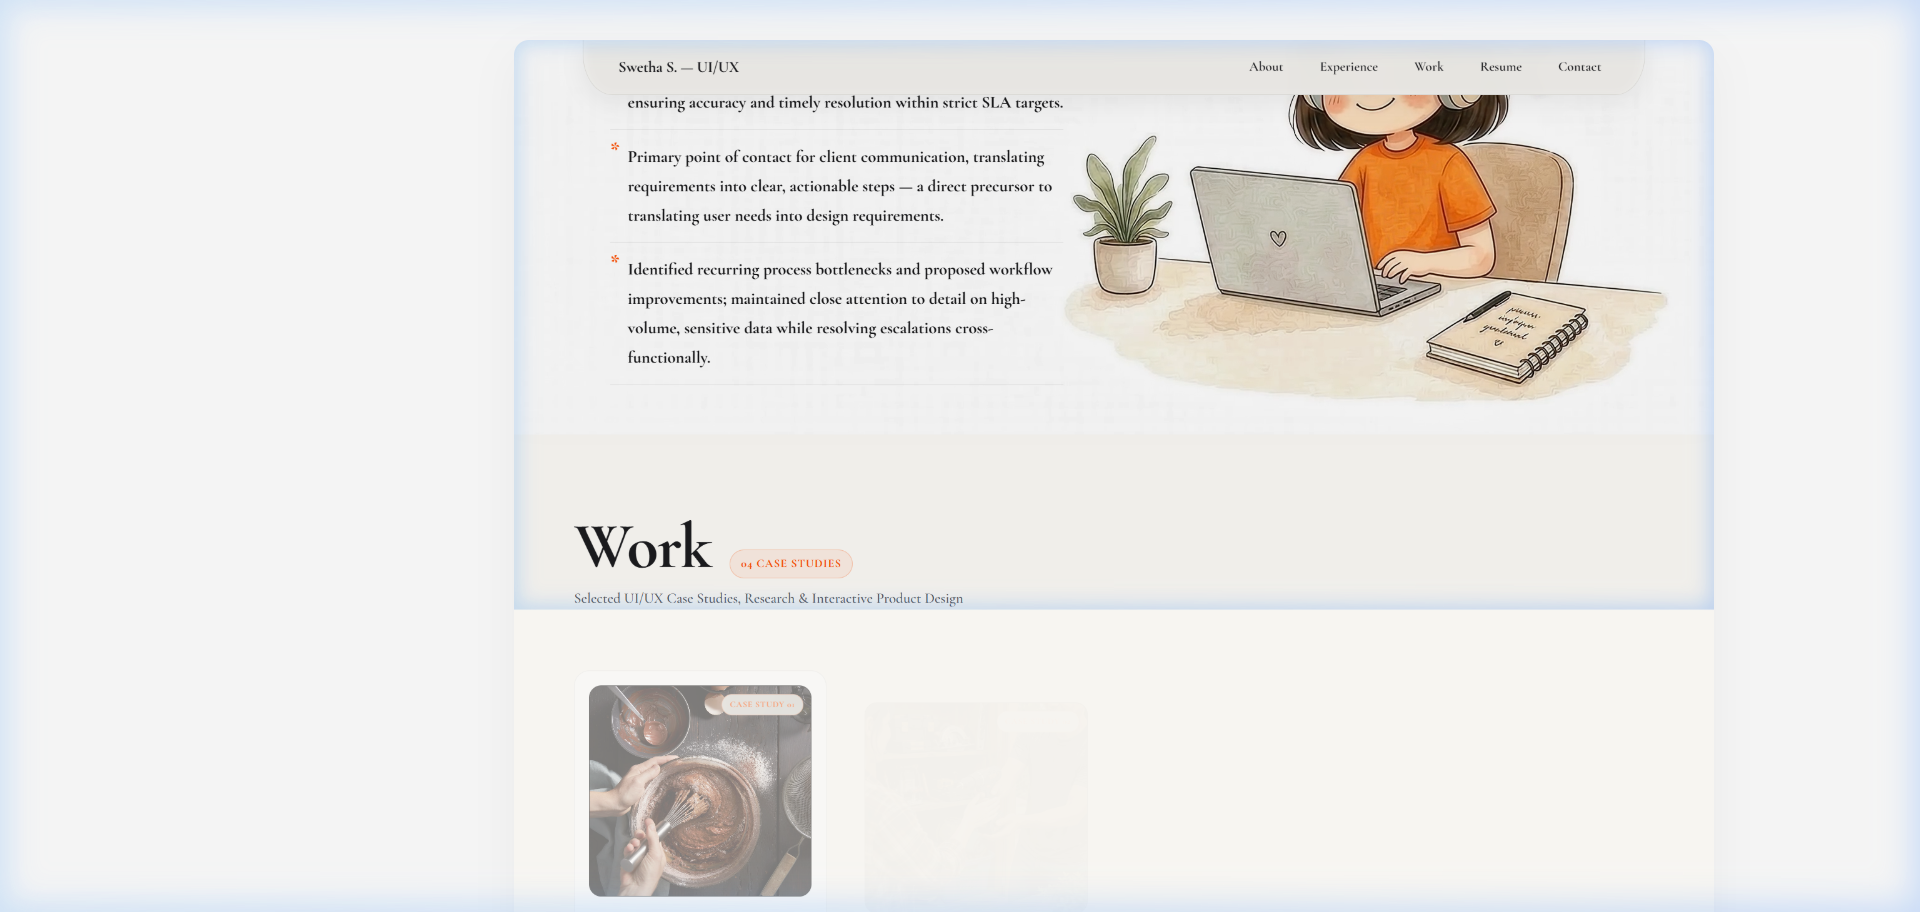
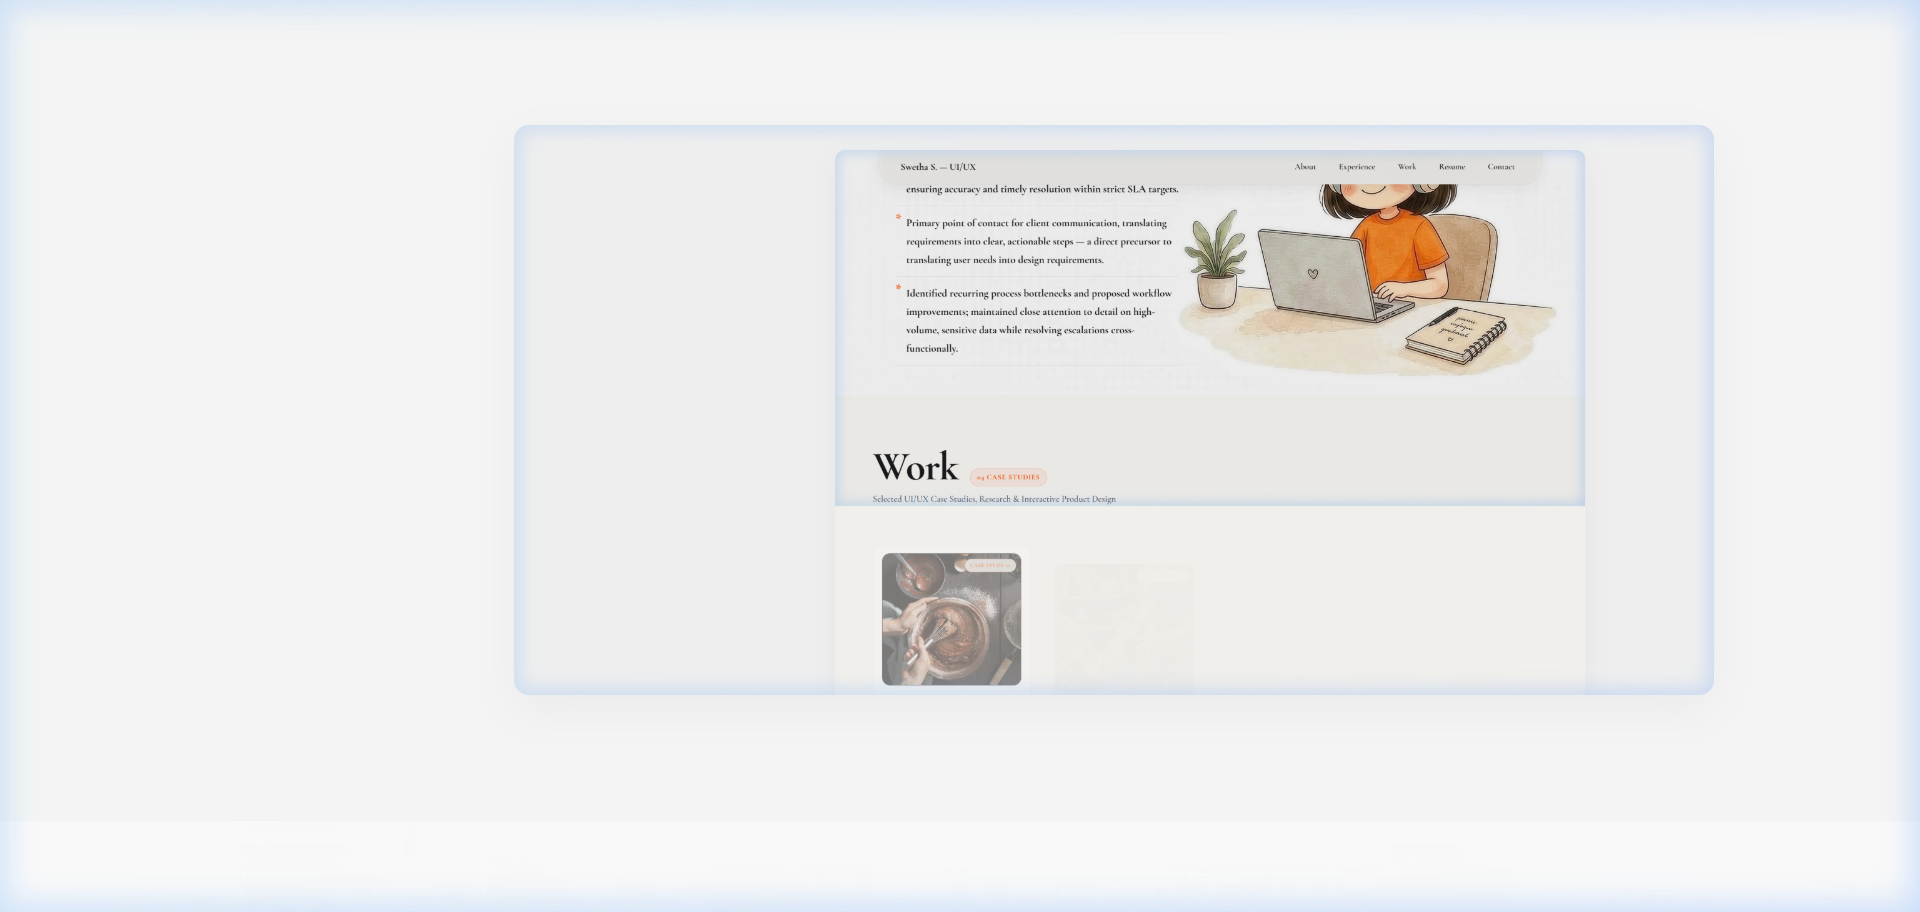
Replace hero section image with full-bleed watercolor girl artwork

diff --git a/css/styles.css b/css/styles.css
@@ -206,41 +206,40 @@ a, button, [role="button"], input, select, textarea, .project-column-item, .proj
 }
 
 /* ═══════════════════════════════════════════════════════════════
-   WATERCOLOR GIRL HERO SECTION (1st Reference Artwork)
+   WATERCOLOR GIRL HERO SECTION (Full-Bleed Artwork Hero)
    ═══════════════════════════════════════════════════════════════ */
 .watercolor-hero {
-    min-height: 90vh;
+    min-height: 100vh;
     width: 100%;
     position: relative;
     display: flex;
     align-items: center;
     justify-content: center;
-    background-color: #FAFAFA;
-    padding-top: 0;
+    background-color: #FFFFFF !important;
+    padding: 0;
+    margin: 0;
     overflow: hidden;
 }
 
 .watercolor-hero-wrapper {
     width: 100%;
-    max-width: 1360px;
+    min-height: 100vh;
     display: flex;
-    justify-content: flex-end;
+    justify-content: center;
     align-items: center;
-    padding: 2rem 5%;
+    padding: 0;
+    margin: 0;
 }
 
 .watercolor-hero-img {
     width: 100%;
-    max-width: 960px;
-    height: auto;
+    max-height: 100vh;
     object-fit: contain;
-    border-radius: 12px;
-    box-shadow: 0 12px 36px rgba(0, 0, 0, 0.04);
+    object-position: center right;
+    display: block;
+    border-radius: 0;
+    box-shadow: none;
     transition: transform 0.6s cubic-bezier(0.16, 1, 0.3, 1);
-}
-
-.watercolor-hero-img:hover {
-    transform: scale(1.015);
 }
 
 /* About Section — Balanced Storybook Layout */

diff --git a/index.html b/index.html
@@ -28,7 +28,7 @@
 
             <!-- Hero Image Display Container -->
             <div class="watercolor-hero-wrapper">
-                <img src="assets/images/hero_girl.png?v=20260918_v3" alt="Watercolor Illustration Girl Hero" class="watercolor-hero-img">
+                <img src="assets/images/hero_girl.png?v=20260918_v4" alt="Watercolor Illustration Girl Hero" class="watercolor-hero-img">
             </div>
         </section>
 
